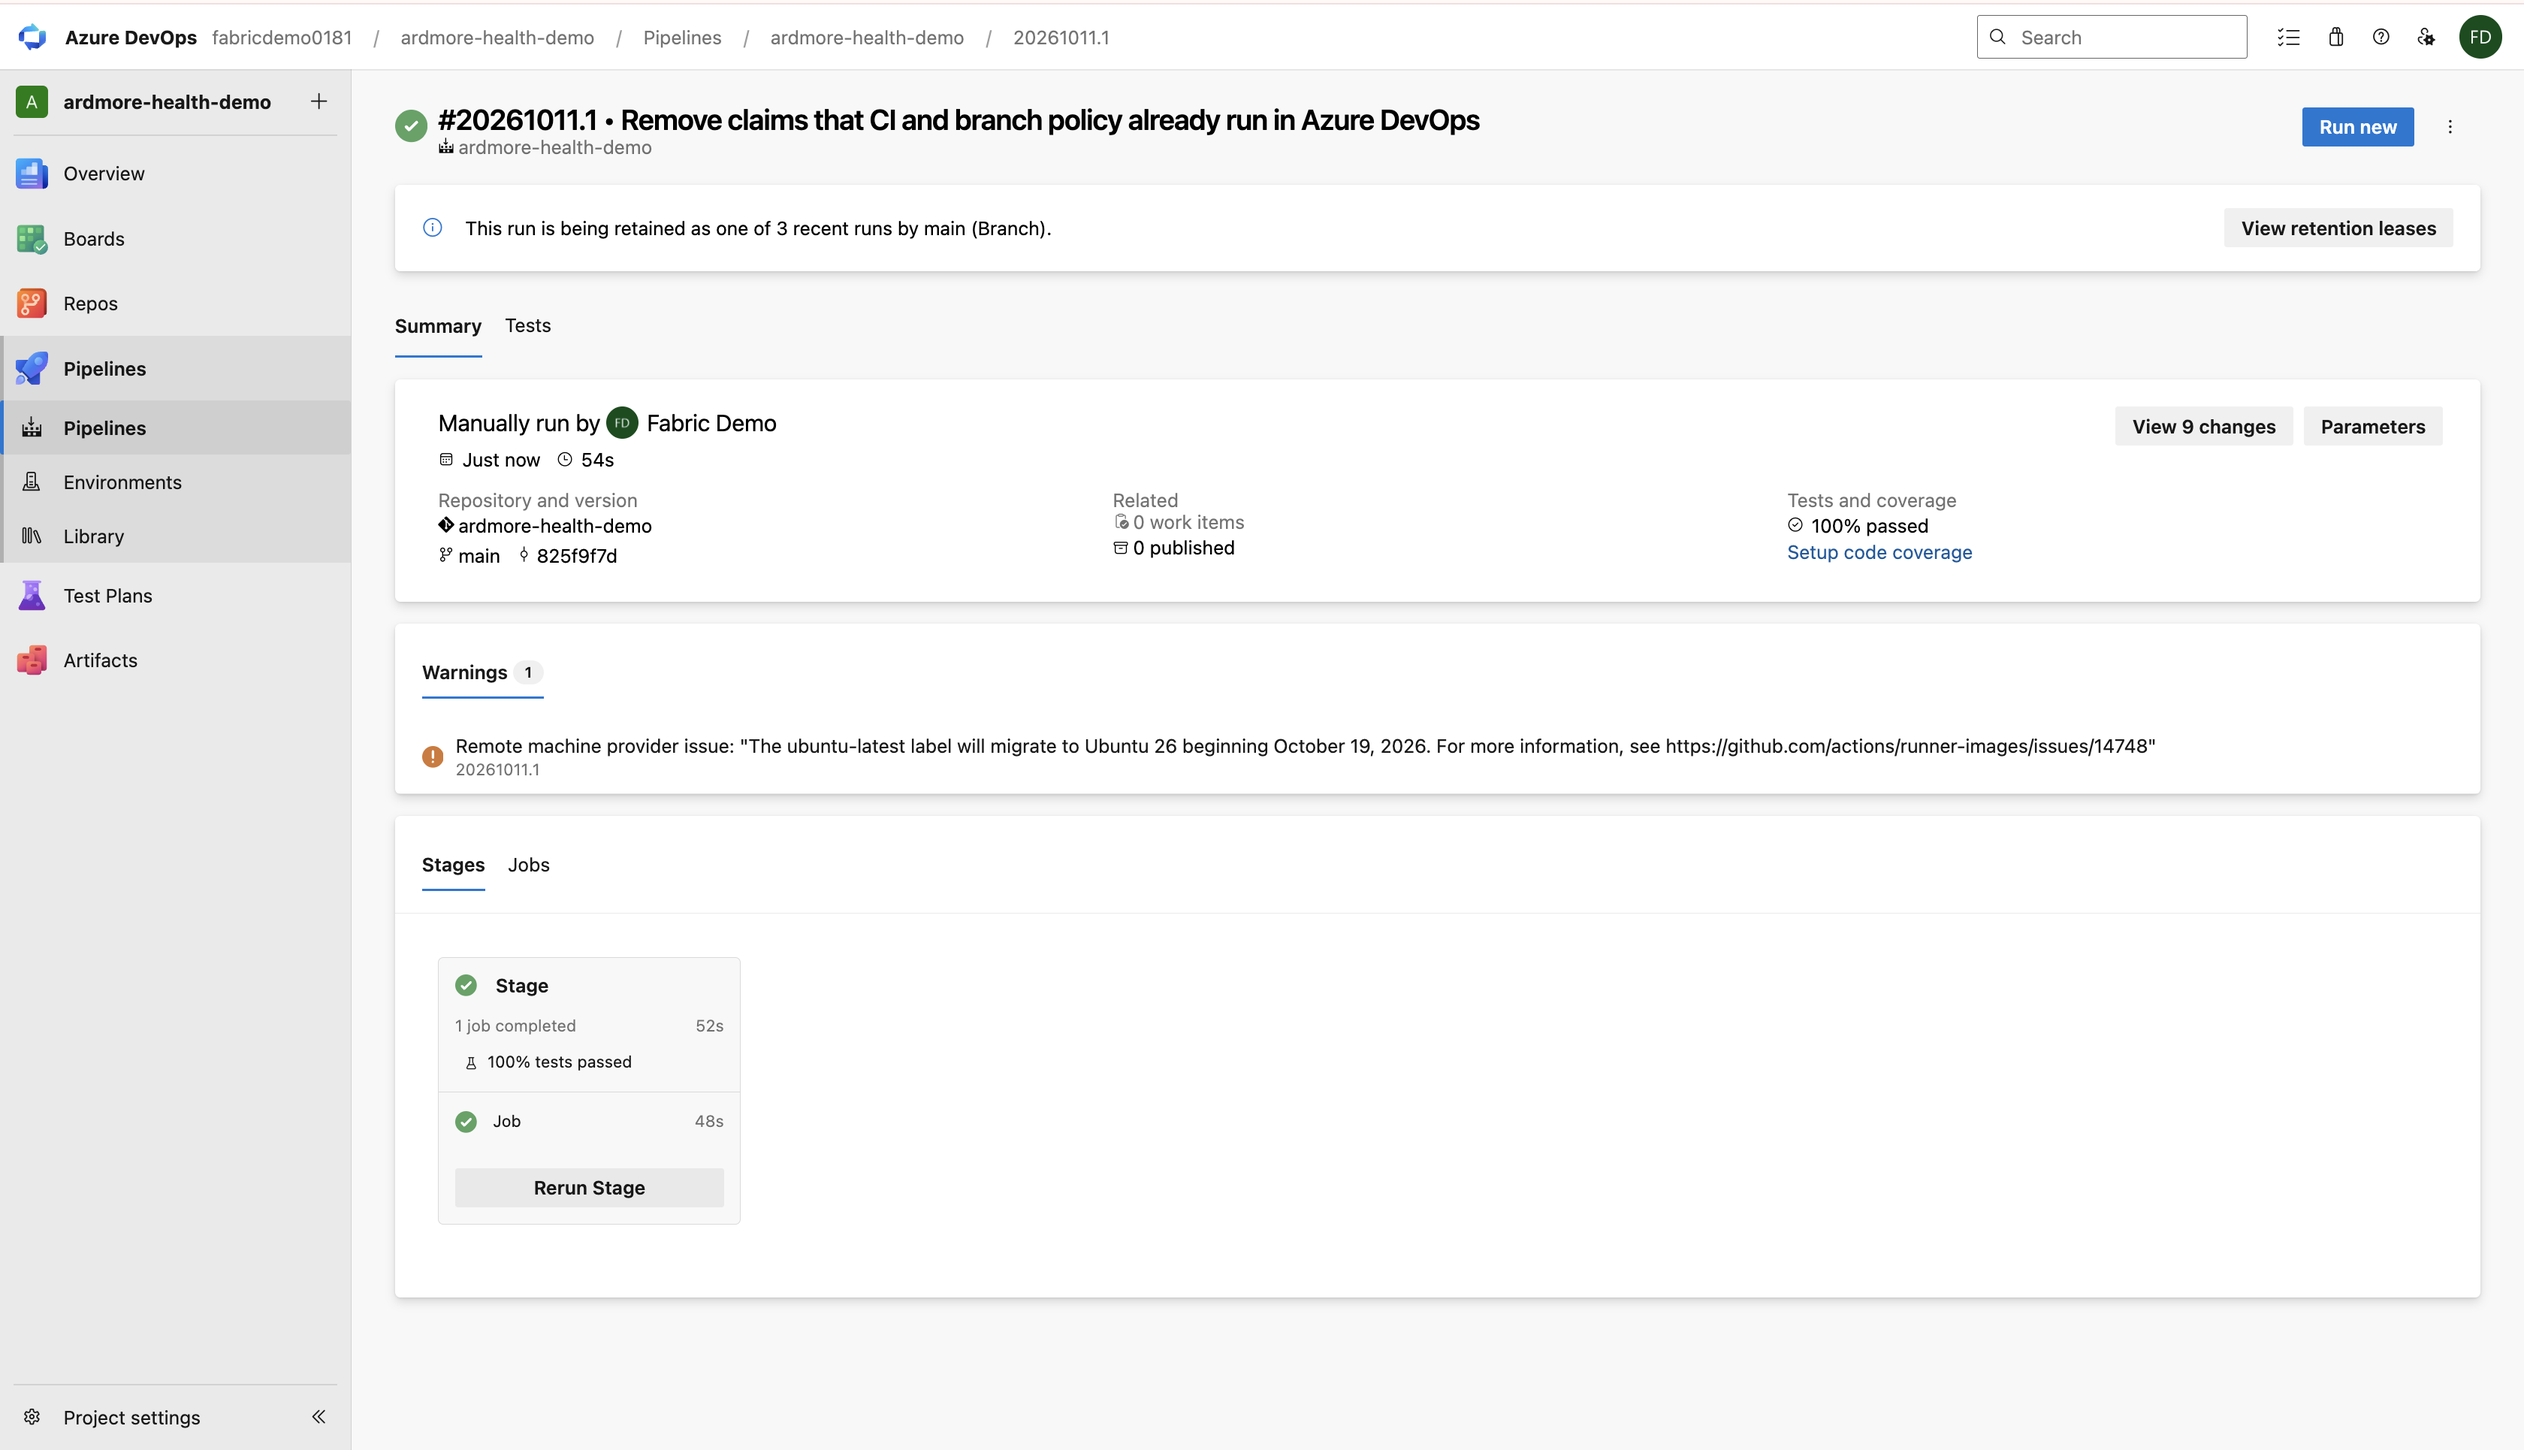
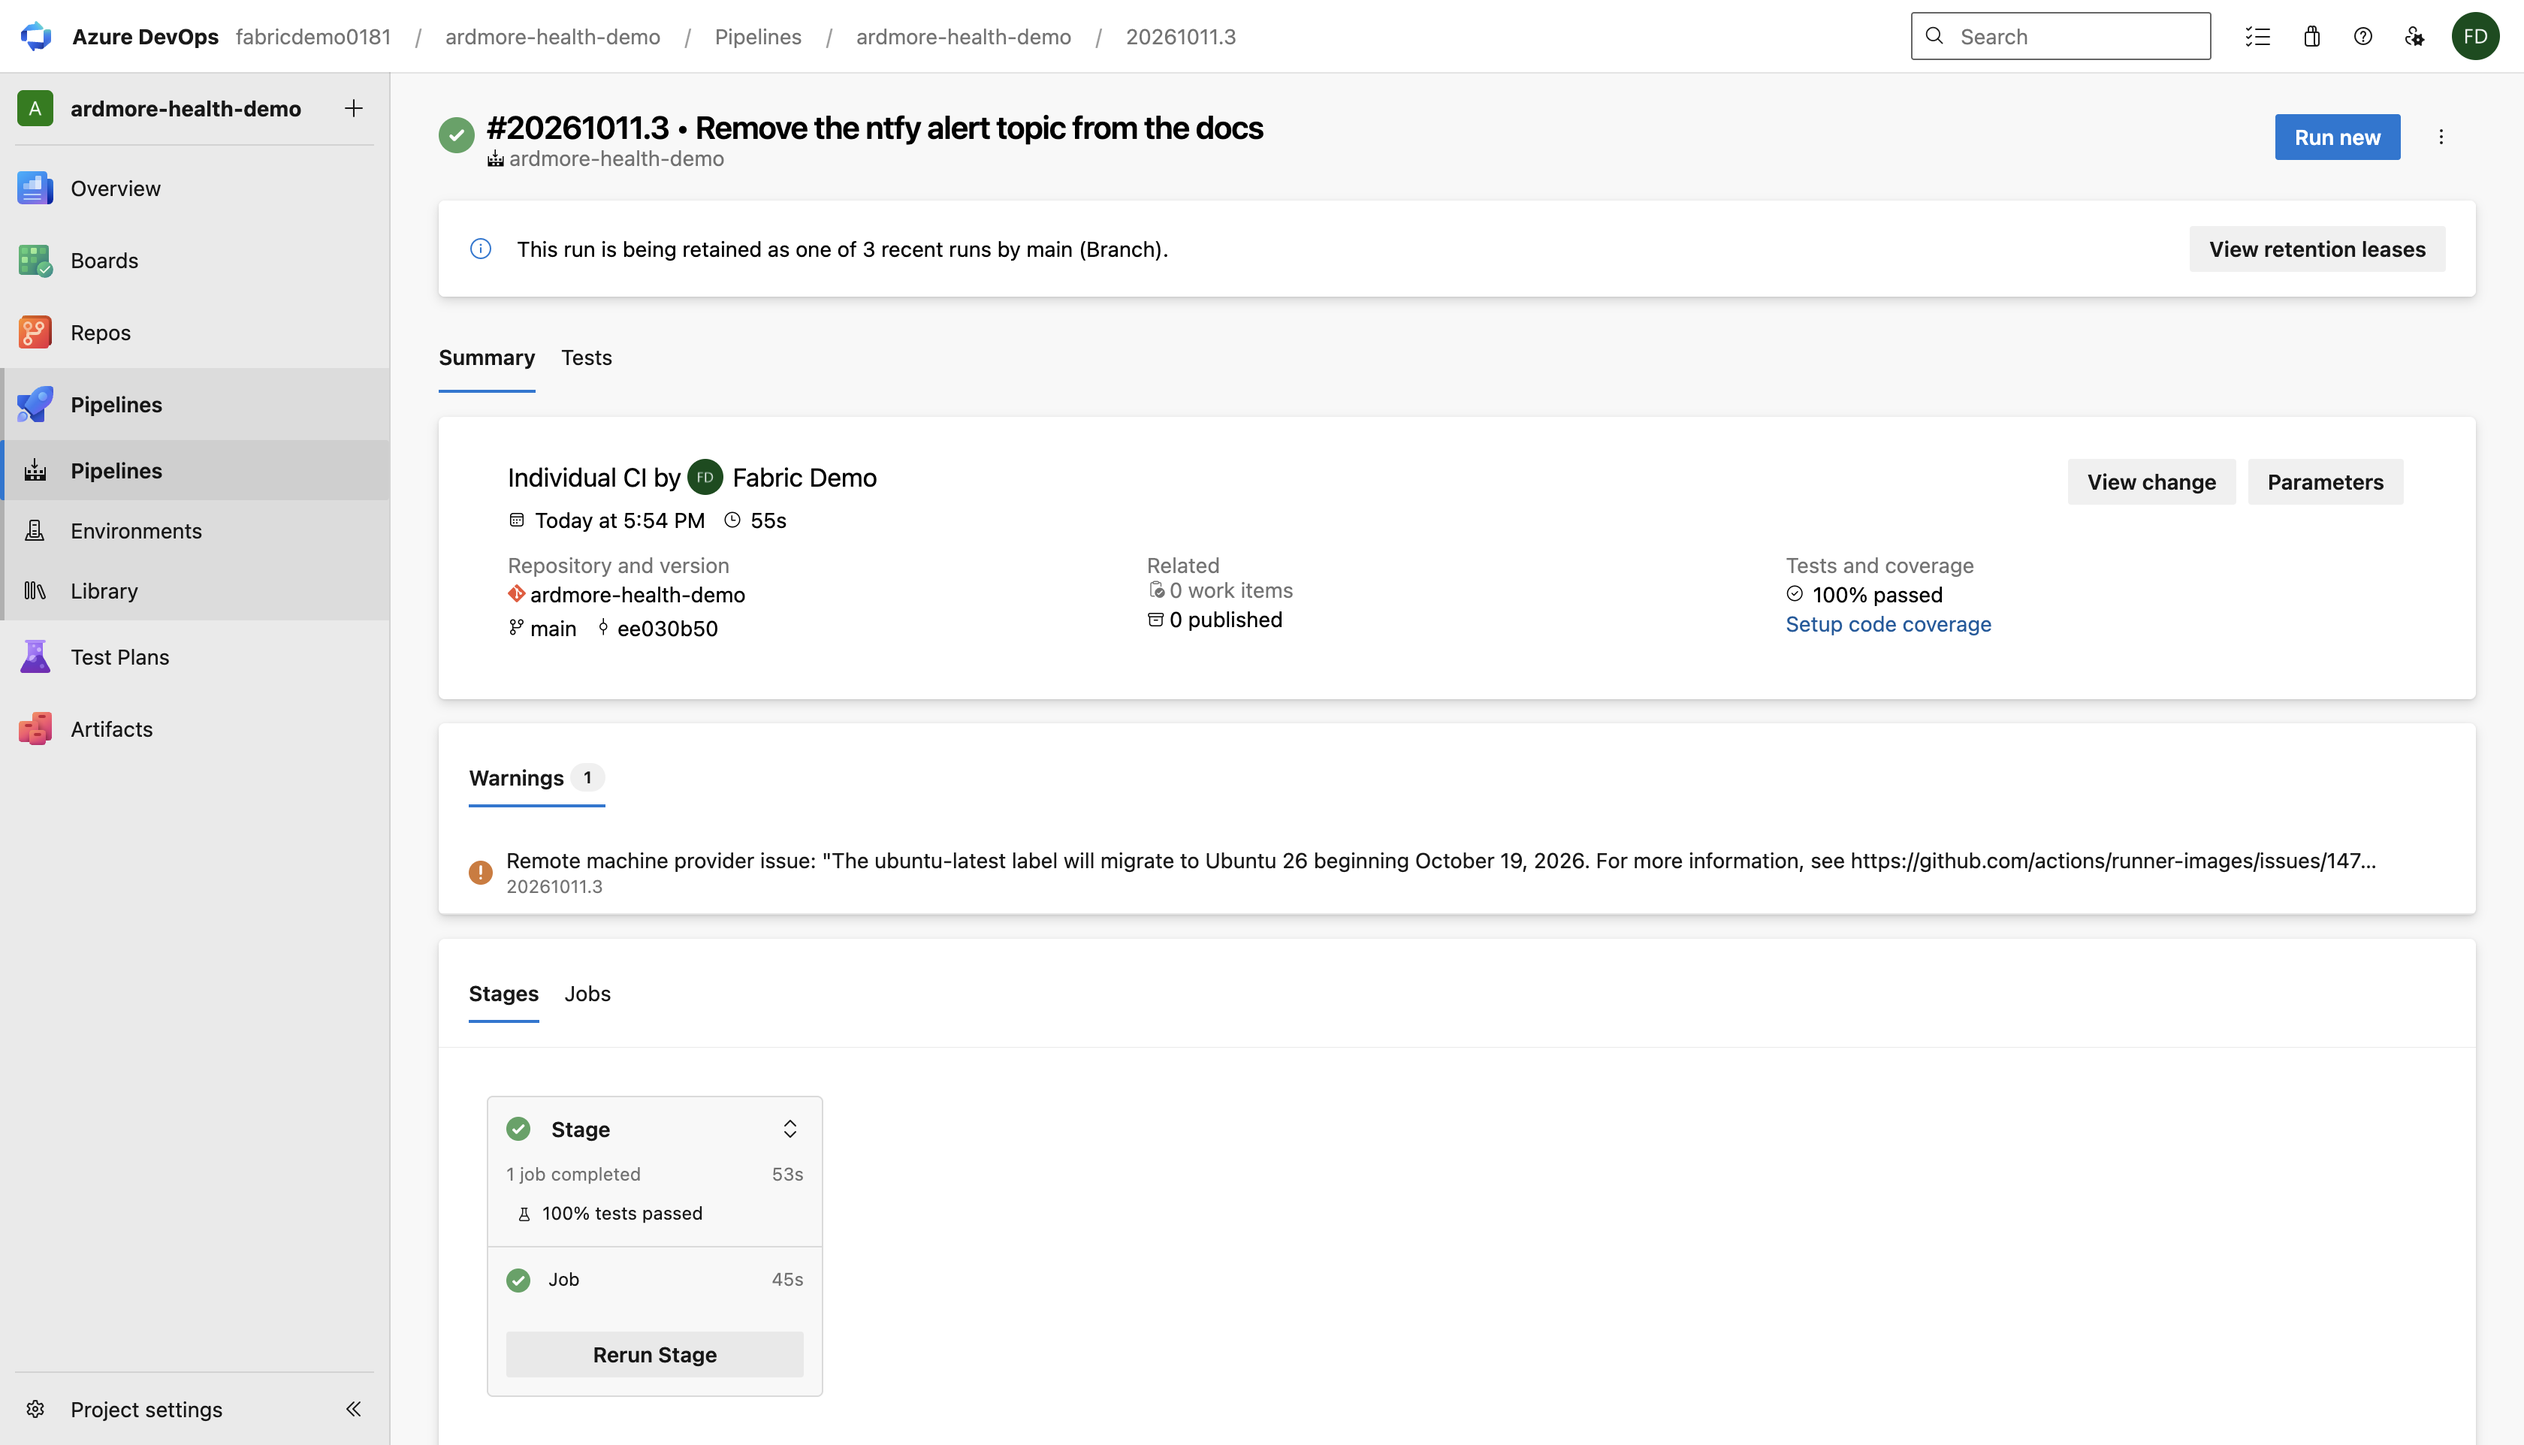
Branch policy on main; CI screenshots now show an automatic run
Claude-Session: https://claude.ai/code/session_01VP4TghZguDuTaiW5eyzAdv

diff --git a/README.md b/README.md
@@ -32,7 +32,7 @@ joins them in Excel and they rarely match. Here both come from one pipeline, and
 | Semantic model | Direct Lake, 14 tables, 23 relationships, 37 DAX measures, 5 security roles. Built from code. | `semantic_model/`, `nb_06` |
 | Report | Executive summary and revenue trend pages. | `docs/report_pages.md` |
 | Pipeline | `pl_daily_load`: parameters, retries, a condition that only closes the month if checks pass, a phone alert on failure, daily at 06:00. | `docs/fabric_build_guide.md` |
-| Tests | 46 tests: SQL data quality rules in DuckDB, manifest checks, a check that no personal data reaches silver, T-SQL parsing. They run in Azure DevOps on every push to main. | `tests/`, `azure-pipelines.yml` |
+| Tests | 46 tests: SQL data quality rules in DuckDB, manifest checks, a check that no personal data reaches silver, T-SQL parsing. They run in Azure DevOps on every push to main, and a branch policy means main only changes through a reviewed pull request that passes them. | `tests/`, `azure-pipelines.yml` |
 | Documents | Data dictionary, GDPR and HIQA note, runbook, architecture, build guide. | `docs/` |
 
 ## What I tested
@@ -44,8 +44,10 @@ joins them in Excel and they rarely match. Here both come from one pipeline, and
   ([screenshot](docs/screenshots/13_incremental_load.png))
 - September 2026 then closed automatically next to June. ([screenshot](docs/screenshots/14_close_status_september.png))
 - The daily 06:00 schedule. ([screenshot](docs/screenshots/12_pipeline_schedule.png))
-- The 46 tests in Azure DevOps. The pipeline ran green on commit `825f9f7` with all 46 passing.
+- The 46 tests in Azure DevOps. A push to main started the pipeline by itself and all 46 passed.
   ([tests](docs/screenshots/24_devops_tests_passed.png), [run](docs/screenshots/24b_devops_run_summary.png))
+- A branch policy on main: one reviewer and a passing test run before any change is merged.
+  ([screenshot](docs/screenshots/25_devops_branch_policy.png))
 
 ## Results on the synthetic data (January 2024 to September 2026)
 
@@ -79,7 +81,6 @@ More detail is in [the runbook](docs/runbook.md).
 
 - Report pages 2 to 7 (debtors, payer mix, service lines, budget and forecast, throughput, month-end control).
   They are designed in `docs/report_pages.md` and the measures exist.
-- A branch policy on main so changes can only arrive through a pull request that passes the tests.
 - Fabric Git integration.
 - Copilot. It is not available on trial capacities. My notes on where I would and would not use it are in
   `docs/copilot_answer.md`.
@@ -120,7 +121,9 @@ All of them are in [docs/screenshots](docs/screenshots/README.md).
 | ![Semantic model](docs/screenshots/07_semantic_model_direct_lake.png) | ![Revenue trend](docs/screenshots/18_report_revenue_trend.png) |
 | Semantic model | Revenue against budget |
 | ![DevOps tests](docs/screenshots/24_devops_tests_passed.png) | ![DevOps run](docs/screenshots/24b_devops_run_summary.png) |
-| Tests in Azure DevOps | Green pipeline run |
+| Tests in Azure DevOps | Green pipeline run, started by a push |
+| ![Branch policy](docs/screenshots/25_devops_branch_policy.png) | |
+| Branch policy on main | |
 
 ## Data sources and licences
 

diff --git a/docs/governance_gdpr_hiqa.md b/docs/governance_gdpr_hiqa.md
@@ -10,7 +10,7 @@ MIMIC or hospital data is used. The controls below are built as they would be fo
 | Health data is special-category data (GDPR Article 9) and needs a lawful basis plus an Article 9 condition | For a hospital's own management reporting this is normally Article 9(2)(h), the management of health services, under the Data Protection Act 2018. Confirmed by the hospital's DPO, not by the BI team. |
 | Data minimisation (Article 5(1)(c)) | Names, address, full date of birth, Eircode routing key and insurer membership number exist only in the landing files. Silver selects none of them. A test in `tests/` fails if a later change adds them back. Birth year and county are the only demographics kept. |
 | Pseudonymised data is still personal data (Recital 26) | The MRN is replaced by a salted SHA-256 key. The salt is a notebook parameter here; in production it comes from Azure Key Vault. Whoever holds the salt can re-identify, so access to the salt is the control. Gold is treated as personal data, not anonymous data. |
-| Security of processing (Article 32) | Data stays in the Fabric North Europe region (Ireland). Workspace roles limit who sees bronze. Row-level security roles limit each site manager to their site (defined in the model, not yet tested with a second user). The test suite runs in Azure DevOps on every push to `main`. A branch policy that blocks changes without a passing run is the next step and is not set up yet. |
+| Security of processing (Article 32) | Data stays in the Fabric North Europe region (Ireland). Workspace roles limit who sees bronze. Row-level security roles limit each site manager to their site (defined in the model, not yet tested with a second user). The test suite runs in Azure DevOps, and a branch policy on `main` blocks any change that has not been reviewed and passed the tests. |
 | Accountability and DPIA (Articles 5(2) and 35) | Large-scale processing of health data normally needs a Data Protection Impact Assessment before go-live. This repo supplies the inputs: data dictionary, data flow, controls, retention points. |
 | Retention | Bronze is the audit copy. In production set a retention period with the DPO and delete raw files after it. Trial data is deleted when the trial ends. |
 | Regulator | Data Protection Commission (DPC). |

diff --git a/docs/screenshots/README.md b/docs/screenshots/README.md
@@ -23,4 +23,5 @@ Taken in my Microsoft Fabric trial workspace in October 2026. All data shown is 
 | `17_report_executive_summary.png` | Report page 1, September 2026 |
 | `18_report_revenue_trend.png` | Report page 2, net revenue against budget |
 | `24_devops_tests_passed.png` | Azure DevOps: 46 of 46 tests passed |
-| `24b_devops_run_summary.png` | Azure DevOps: the green pipeline run on commit 825f9f7 |
+| `24b_devops_run_summary.png` | Azure DevOps: green run started automatically by a push (Individual CI) |
+| `25_devops_branch_policy.png` | Branch policy on main: 1 reviewer and the test pipeline required |
